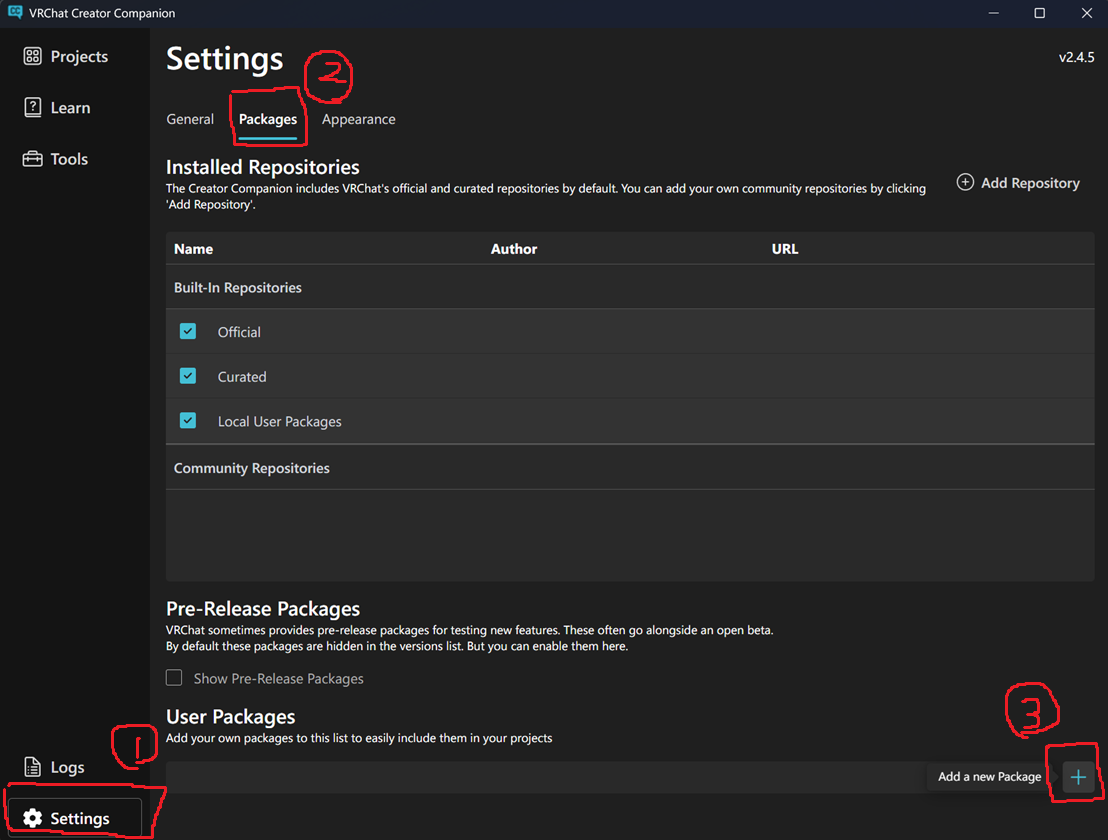
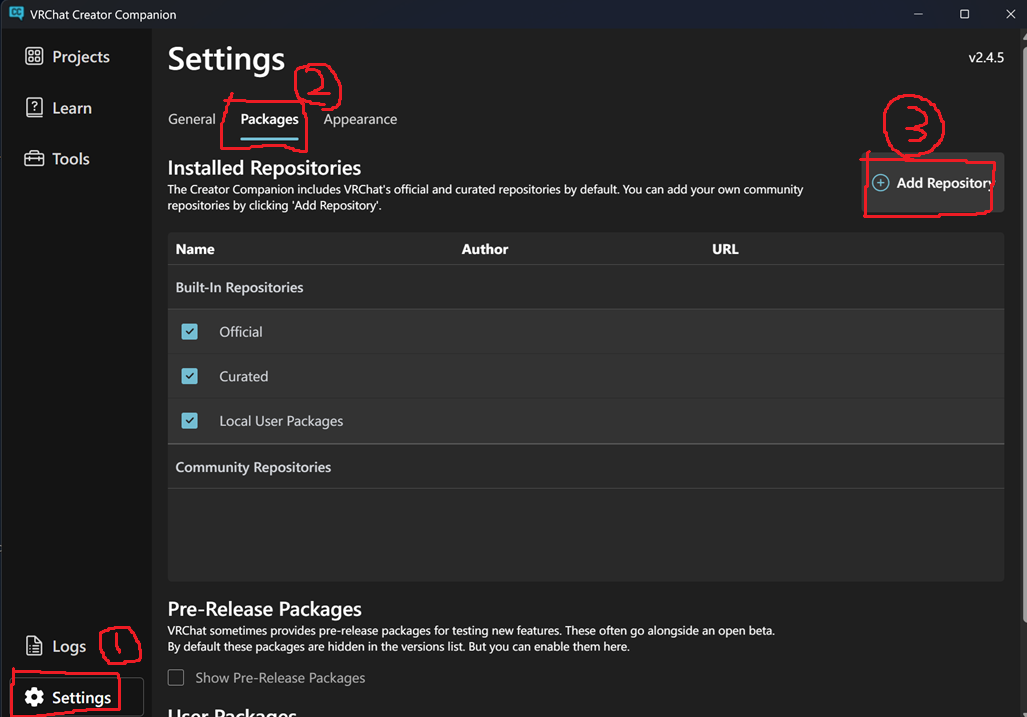
fix docs

diff --git a/unity/io.tesca.mensharp/Editor/MenSharpCompiler.cs b/unity/io.tesca.mensharp/Editor/MenSharpCompiler.cs
@@ -79,7 +79,16 @@ public static class MenSharpCompiler
         MenSharpSources.SourceSet set = MenSharpSources.Collect();
         if (set.MenSharp.Count == 0)
         {
-            Debug.LogError($"MenSharp: no .cs files under {SourceRoot} (or in an assembly referencing {MenSharpSources.RuntimeAssembly}).");
+            // An empty source set is normal just after installing the package:
+            // creating Assets/MenSharp triggers another asset-postprocessor pass.
+            // Keep that automatic pass quiet; an explicit menu command still
+            // deserves feedback, but this is not a compilation failure.
+            if (!onlyIfChanged)
+            {
+                Debug.LogWarning(
+                    $"MenSharp: no .cs files under {SourceRoot} (or in an assembly "
+                    + $"referencing {MenSharpSources.RuntimeAssembly}).");
+            }
             return;
         }
 

diff --git a/docs/doc.md b/docs/doc.md
@@ -11,6 +11,7 @@
 
  - [はじめに](#はじめに)
  - [インストール方法](#インストール方法)
+   - [VCC(VRChat Creator Companion)の場合](#vccvrchat-creator-companionの場合)
    - [ALCOMの場合](#alcomの場合)
  - [使い方](#使い方)
  - [配布方法](#配布方法)
@@ -24,7 +25,7 @@
 # はじめに
 MenSharpとはUdon Assemblyへのコンパイラです。
 
-世界最速のC#コンパイラであり、C#公式のRoslynコンパイラより3倍程度、UdonSharpコンパイラ比では10倍以上高速に動作します。
+世界最速のC#コンパイラであり、C#公式のRoslynコンパイラより最大8倍程度高速にコンパイルできます。
 
 使用できるC#機能は**ほぼ全て**で、現時点でサポートしていないのはThread, lock, FileIO, VRC SDKを経由しないネットワークアクセス等のごく一部の機能のみです。
 
@@ -37,10 +38,26 @@ MenSharpとはUdon Assemblyへのコンパイラです。
 ## インストール方法
 インストールは非常に簡単です。
 
-### VCC(VRChat Creator Companion)の場合
-まずはMenSharpパッケージのzipをダウンロードして適当なディレクトリに展開します。
+> VPM: `https://vpm.tesca.io/vpm.json`
 
-その後、VCCの設定のパッケージタブからユーザーパッケージとして追加します。
+### VCC(VRChat Creator Companion)の場合
+パッケージの追加方法は二通りあります
+
+#### Zipの場合
+ダウンロードしたZipを展開して適当な場所に展開します
+
+次に、設定のパッケージタブから先ほど展開したフォルダを選択します
+
+![](./assets/vcczip.png)
+
+次に、プロジェクトを新規作成するか既存のプロジェクトの管理画面を開いてMenSharpを追加します。
+
+![](./assets/vcc1.png)
+
+追加できたら、次の[使い方](#使い方)セクションに進んでください。
+
+#### VPMリポジトリの場合
+まずは`https://vpm.tesca.io/vpm.json`をVPMリポジトリとして追加します
 
 ![](./assets/vcc0.png)
 
@@ -53,9 +70,24 @@ MenSharpとはUdon Assemblyへのコンパイラです。
 <div style="page-break-before:always"></div>
 
 ### ALCOMの場合
-まずはMenSharpパッケージのzipをダウンロードして適当なディレクトリに展開します。
+パッケージの追加方法は二通りあります
 
-その後、ALCOMのパッケージのタブから先ほど展開したパッケージを登録します。
+#### Zipの場合
+ダウンロードしたZipを展開して適当な場所に展開します
+
+次に、設定のユーザーパッケージタブから先ほど展開したフォルダを選択します
+
+![](./assets/alcomzip.png)
+
+次に、プロジェクトを新規作成するか既存のプロジェクトの管理画面を開きます。開いたら先ほど登録したパッケージをプロジェクトにインストールします。
+
+![](./assets/alcom1.png)
+
+追加できたら、次の[使い方](#使い方)セクションに進んでください。
+
+#### VPMリポジトリの場合
+
+まずは`https://vpm.tesca.io/vpm.json`をVPMリポジトリとして追加します
 
 ![](./assets/alcom0.png)
 
@@ -655,10 +687,6 @@ public class Ex7Behaviour : MenSharpBehaviour
 <div style="page-break-before:always"></div>
 
 ## Q&A
-
-> **Q. OSSとして公開する予定はありますか？**
-> 
-> A. もちろんです！一通りのクローズドテストが終われば公開されます！
 
 > **Q. サポートされているプラットフォームは？**
 >
